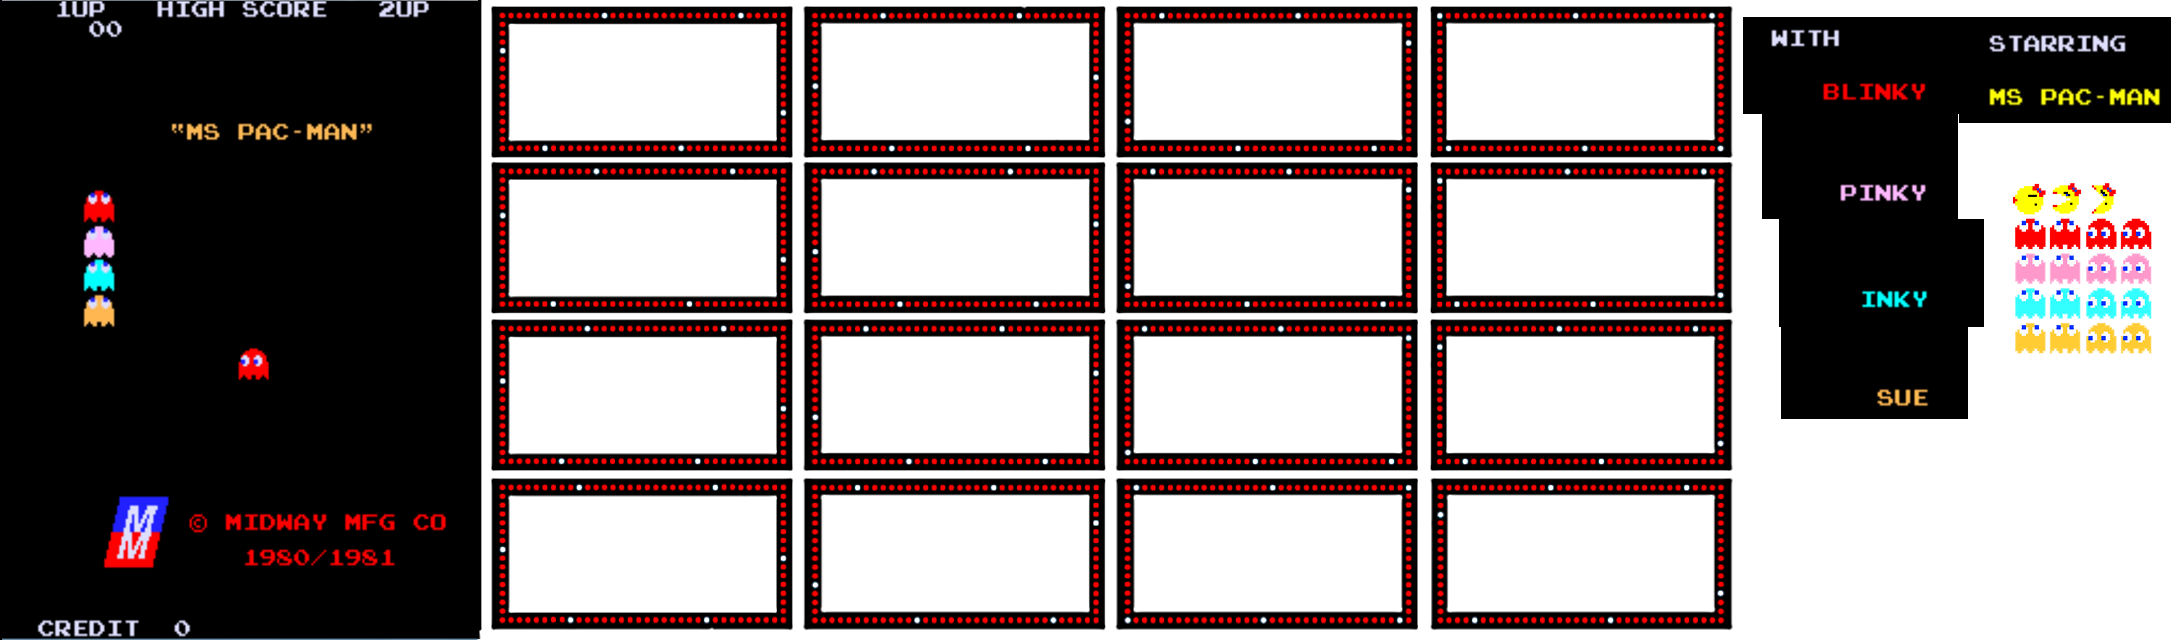
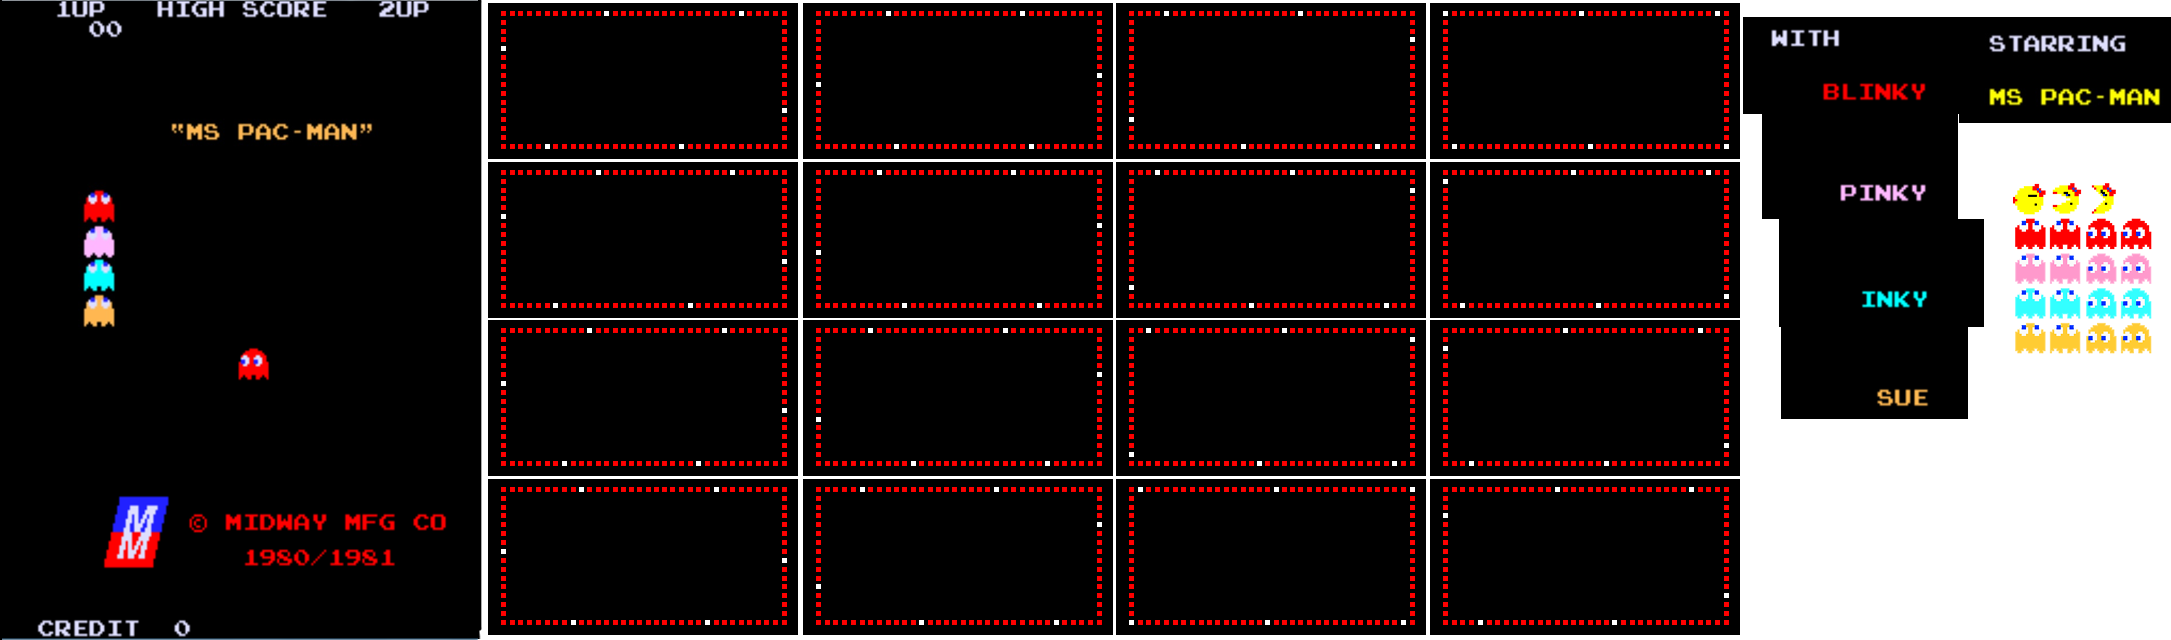
Start screen animations don't shake

diff --git a/Ms.Pacman/ModuleStartscreen.cpp b/Ms.Pacman/ModuleStartscreen.cpp
@@ -19,27 +19,27 @@ ModuleStartScreen::ModuleStartScreen()
 
 
 	// square lights animation
-	square.PushBack({ 492, 7, 299, 152,});
-	square.PushBack({ 492, 163, 299 , 152, });
-	square.PushBack({ 492, 320, 299, 152, });
-	square.PushBack({ 492, 479, 299, 152, });
+	square.PushBack({ 488, 2, 310, 157,});
+	square.PushBack({ 488, 161, 310, 157, });
+	square.PushBack({ 488, 319, 310, 157, });
+	square.PushBack({ 488, 478, 310, 157, });
 
-	square.PushBack({ 805, 7, 299, 152, });
-	square.PushBack({ 805, 163, 299, 152, });
-	square.PushBack({ 805, 320, 299, 152, });
-	square.PushBack({ 805, 479, 299, 152, });
+	square.PushBack({ 803, 2, 310, 157,});
+	square.PushBack({ 803, 161, 310, 157, });
+	square.PushBack({ 803, 319, 310, 157, });
+	square.PushBack({ 803, 478, 310, 157, });
 
-	square.PushBack({ 1117, 7, 299, 152, });
-	square.PushBack({ 1117, 163, 299, 152, });
-	square.PushBack({ 1117, 320, 299, 152, });
-	square.PushBack({ 1117, 479, 299, 152, });
+	square.PushBack({ 1116, 2, 310, 157, });
+	square.PushBack({ 1116, 161, 310, 157, });
+	square.PushBack({ 1116, 319, 310, 157, });
+	square.PushBack({ 1116, 478, 310, 157, });
 
-	square.PushBack({ 1430, 7, 299, 152, });
-	square.PushBack({ 1430, 163, 299, 152, });
-	square.PushBack({ 1430, 320, 299, 152, });
-	square.PushBack({ 1430, 479, 299, 152, });
+	square.PushBack({ 1430, 2, 310, 157, });
+	square.PushBack({ 1430, 161, 310, 157, });
+	square.PushBack({ 1430, 319, 310, 157, });
+	square.PushBack({ 1430, 478, 310, 157, });
 
-	square.speed = 0.85f;
+	square.speed = 0.81f;
 	
 	// ghost name animation
 	gname.PushBack({ 1742, 16, 216, 98, });
